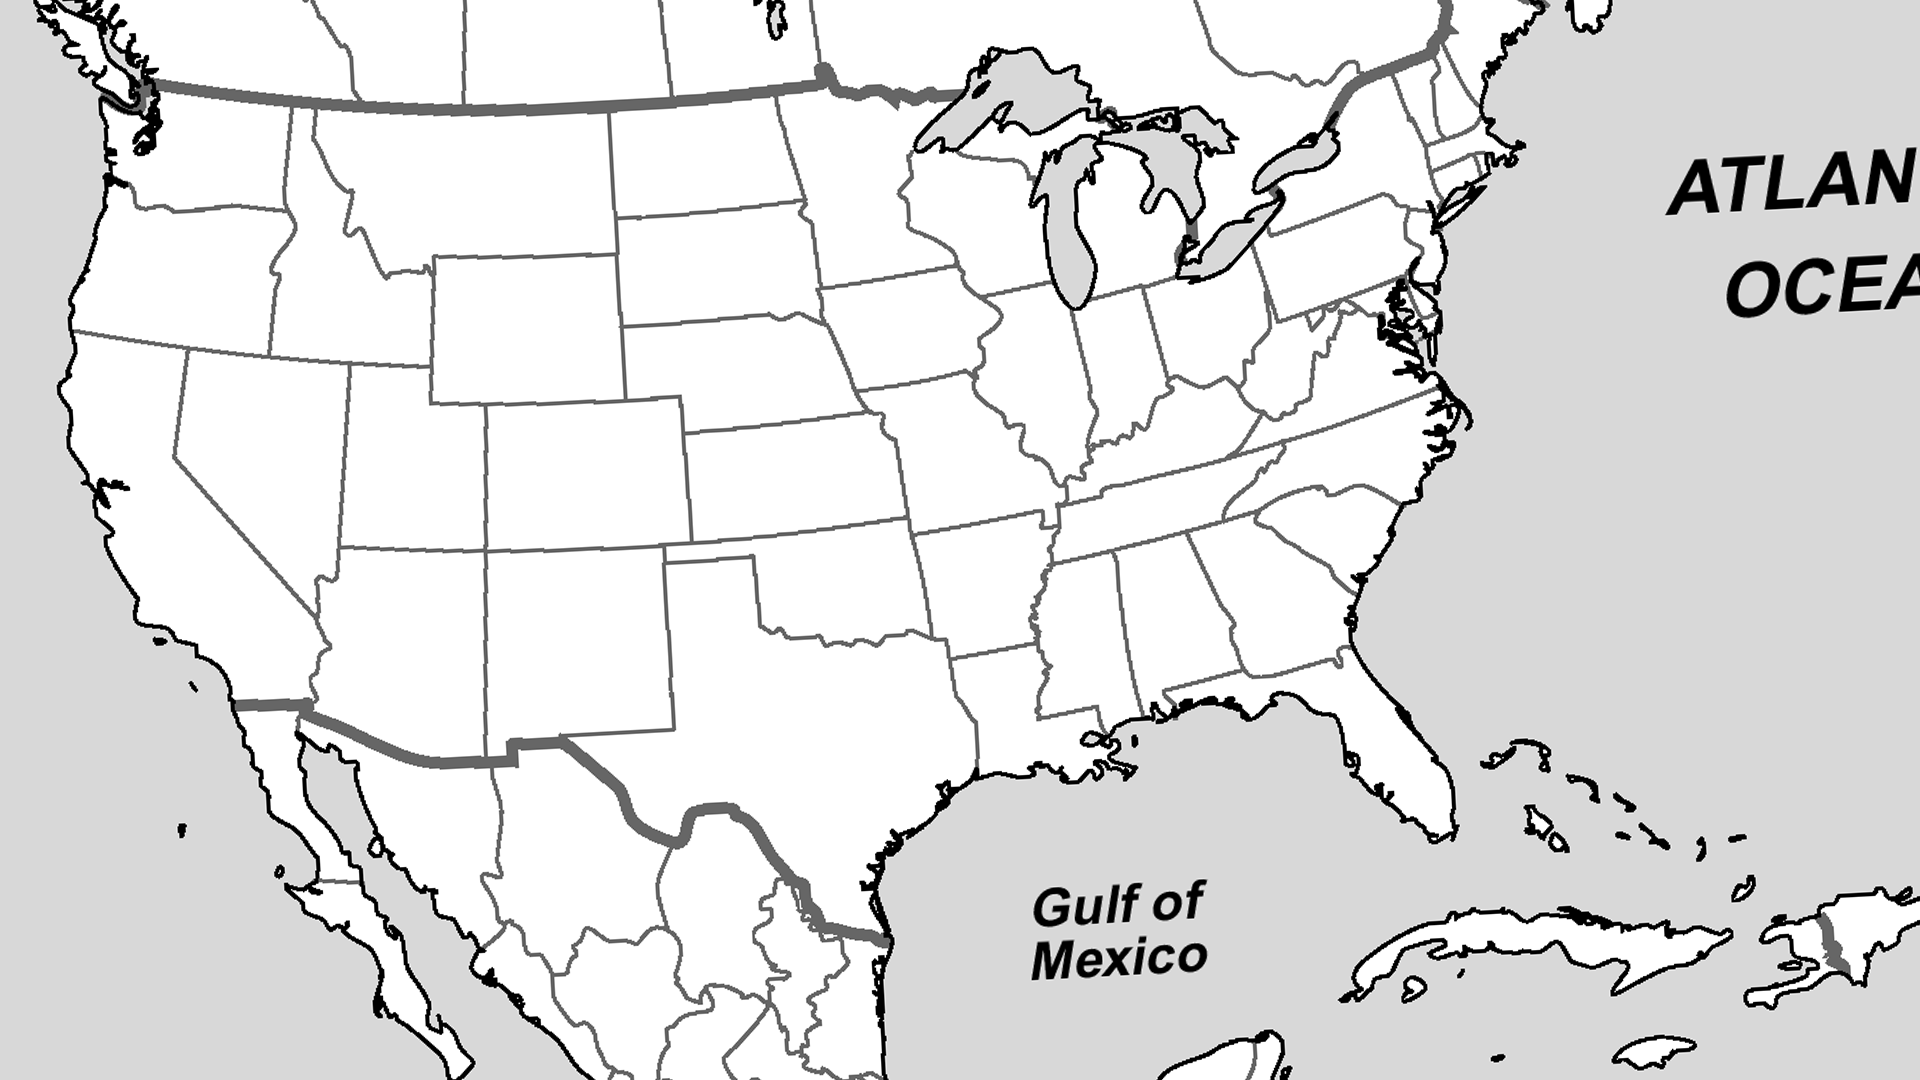
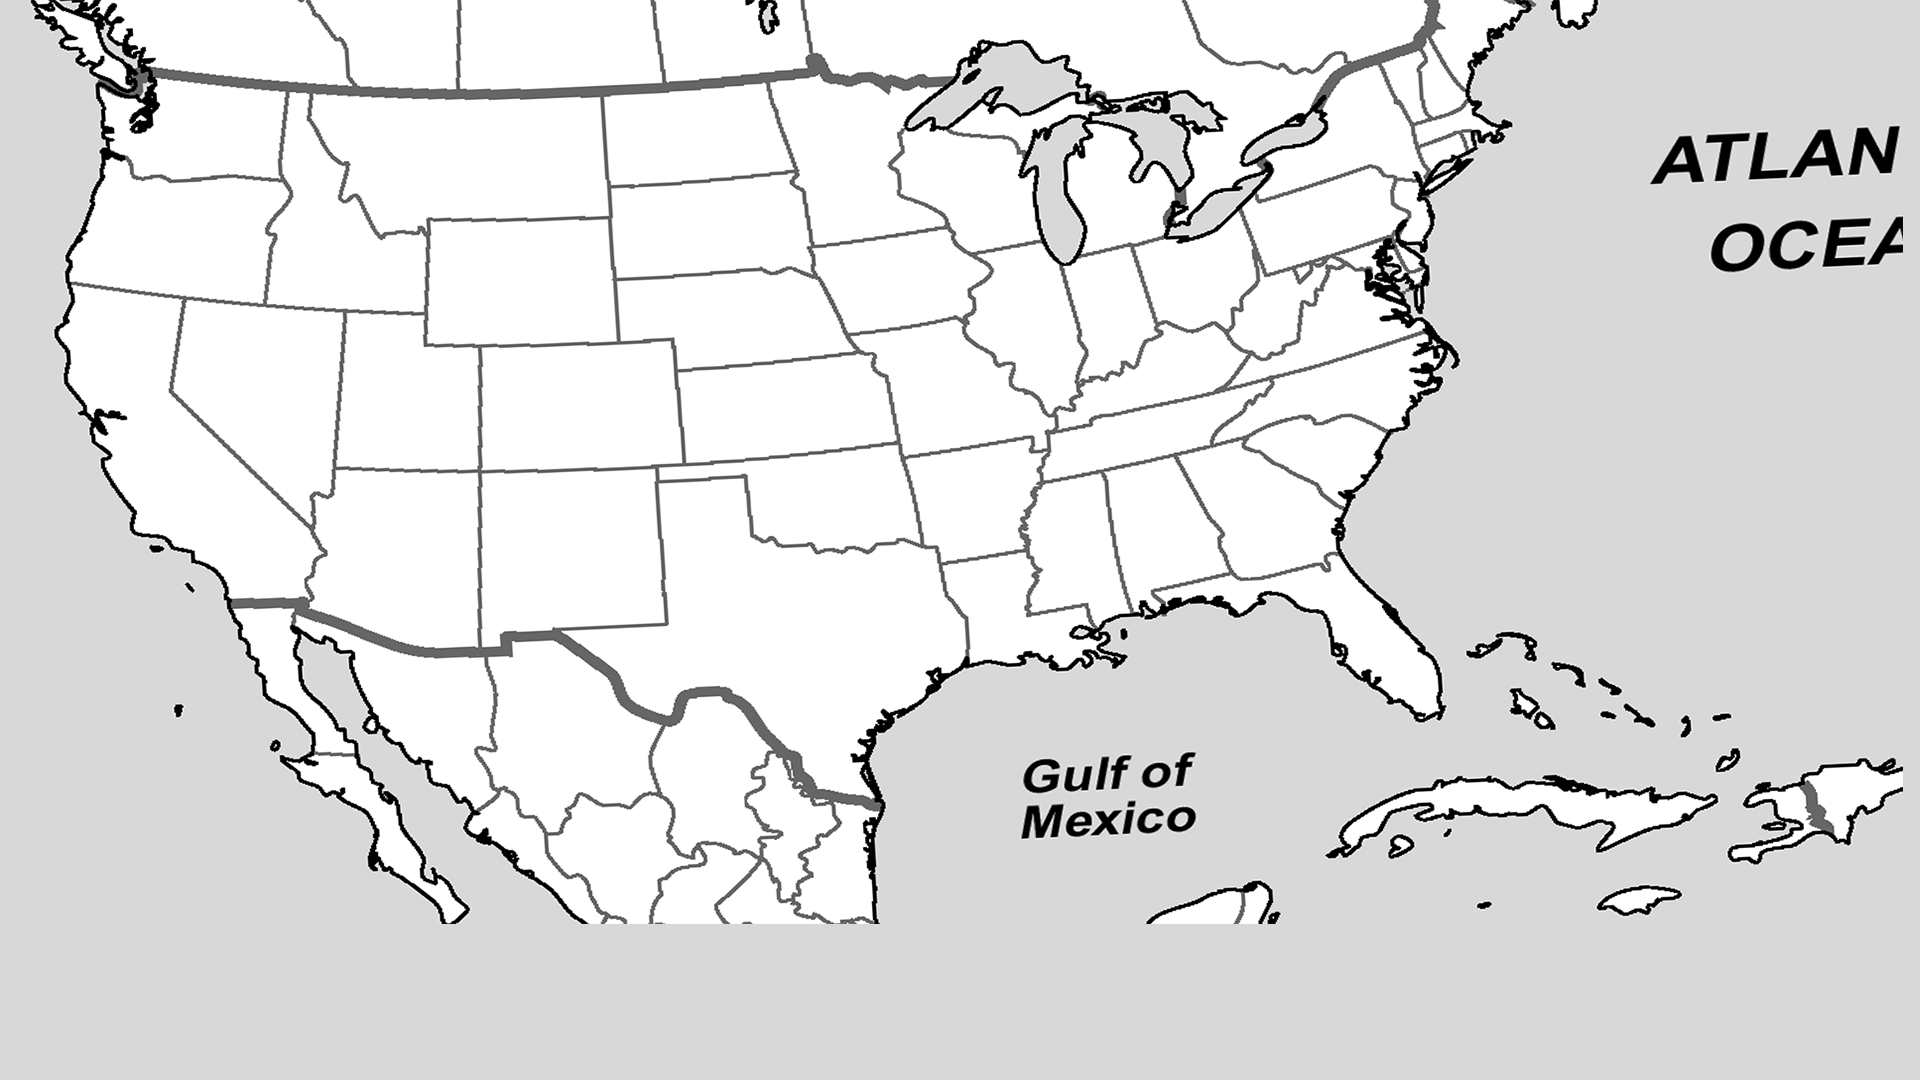
fix sids dummy capital letters

diff --git a/src/main/java/BoardDrawer.java b/src/main/java/BoardDrawer.java
@@ -117,11 +117,12 @@ public class BoardDrawer {
 			map = ImageIO.read(new File("Map.png"));
 		}
 		catch (Exception e) {}
-		//g.drawImage(map, 0, 0, 1535, 755, null);
-		g.setColor(Color.LIGHT_GRAY);
+		
+		g.drawImage(map, -40, 0, 1920, 1080, null);
+		/*g.setColor(new Color(Color.BLACK.getRed(), Color.BLACK.getBlue(), Color.BLACK.getGreen(), 50));
 		g.fillRect(0, 0, 1535, 755);
 		g.setColor(Color.BLACK);
-		g.drawRect(0, 0, 1535, 755);
+		g.drawRect(0, 0, 1535, 755);*/
 		// connecting edges
 		for (int i = 0; i < connectedData.length; i++) {
 			int x1 = (int) points[connectedData[i][0]].getX();

diff --git a/src/main/java/GameState.java b/src/main/java/GameState.java
@@ -183,12 +183,12 @@ public class GameState {
 		if(choosingContracts)
 			return false;
 		TrainCard t = displayCards.get(choice);
-		if (t.getColor().equals("Wild") && turnCounter == 2) {
+		if (t.getColor().equals("wild") && turnCounter == 2) {
 			t = displayCards.remove(choice);
 			curPlayer.addTrainCard(t);
 			displayCards.add(choice, trainCardDeck.pop());
 			turnCounter -= 2;
-		} else if (!t.getColor().equals("Wild")) {
+		} else if (!t.getColor().equals("wild")) {
 			t = displayCards.remove(choice);
 			curPlayer.addTrainCard(t);
 			displayCards.add(choice, trainCardDeck.pop());
